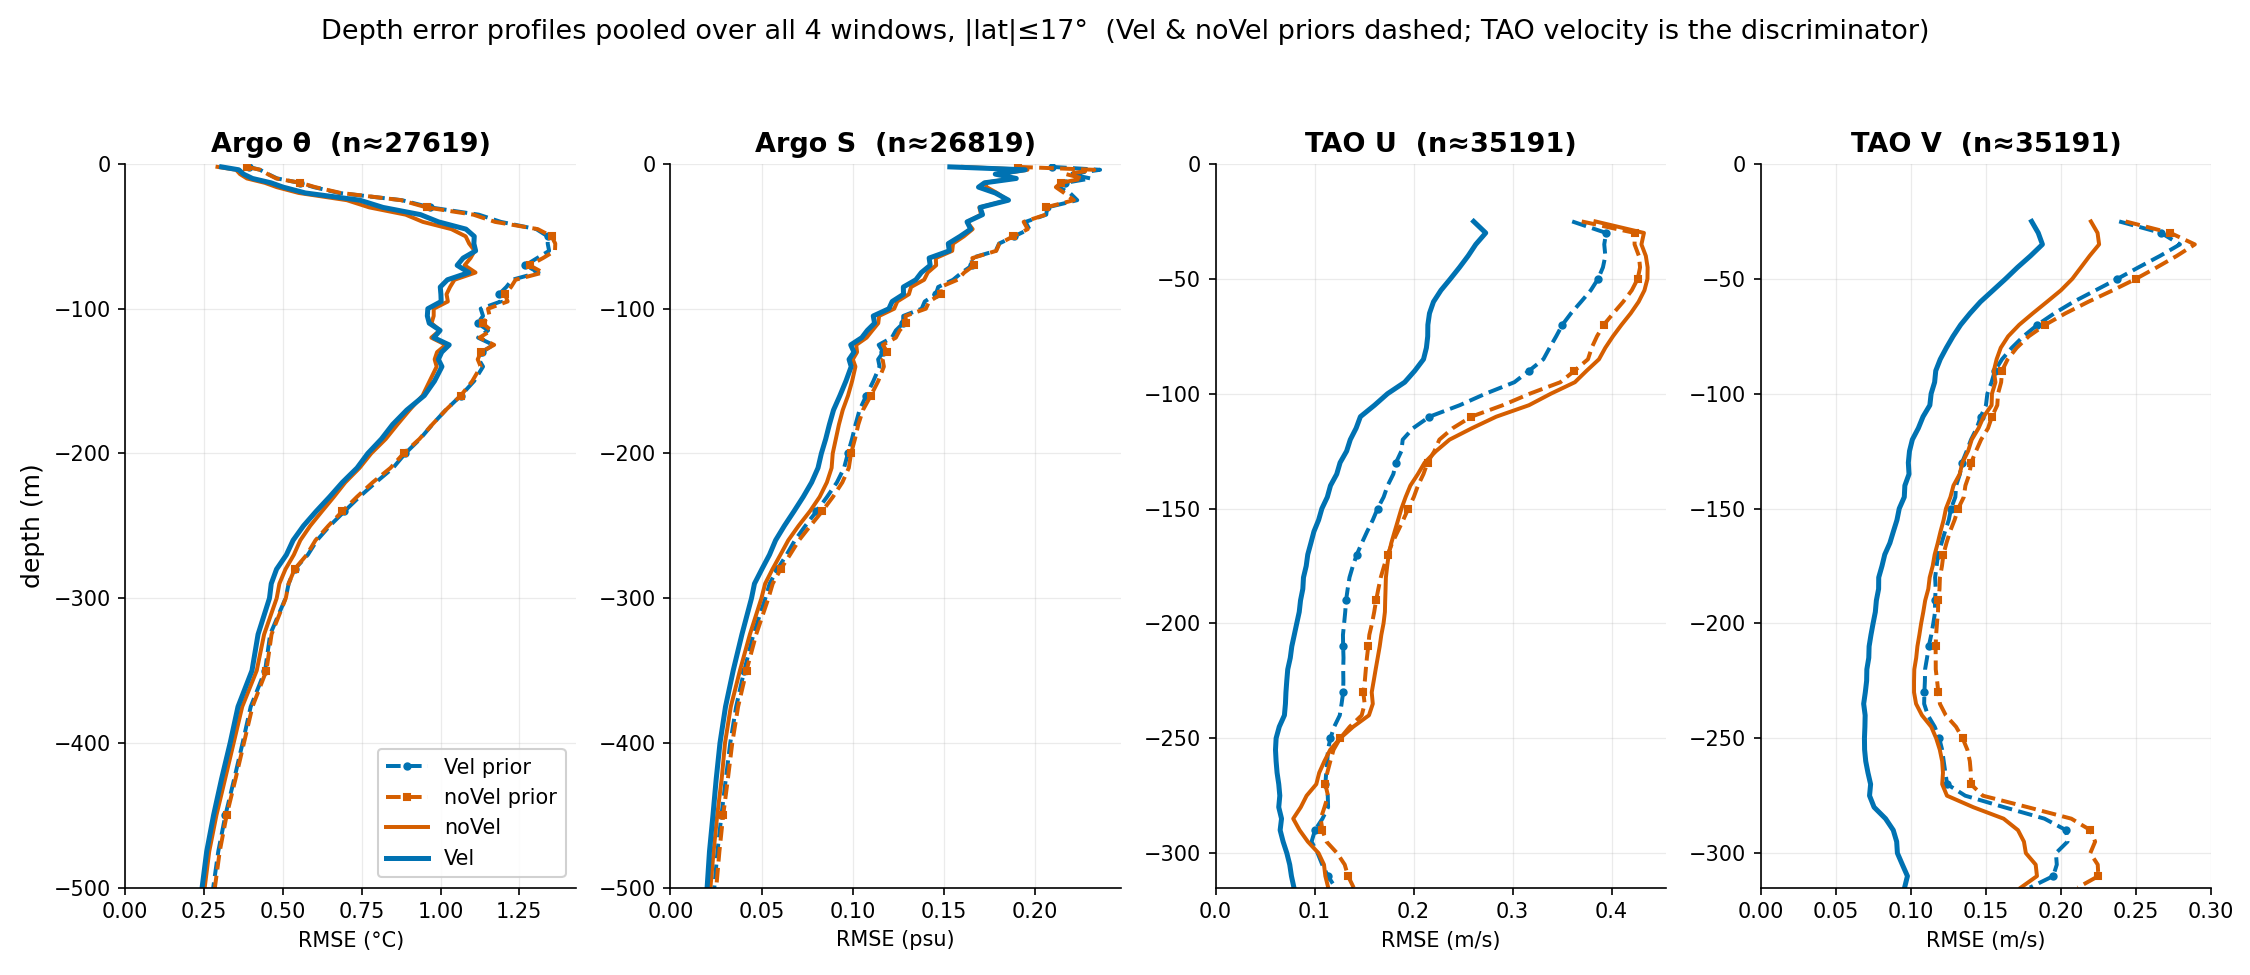
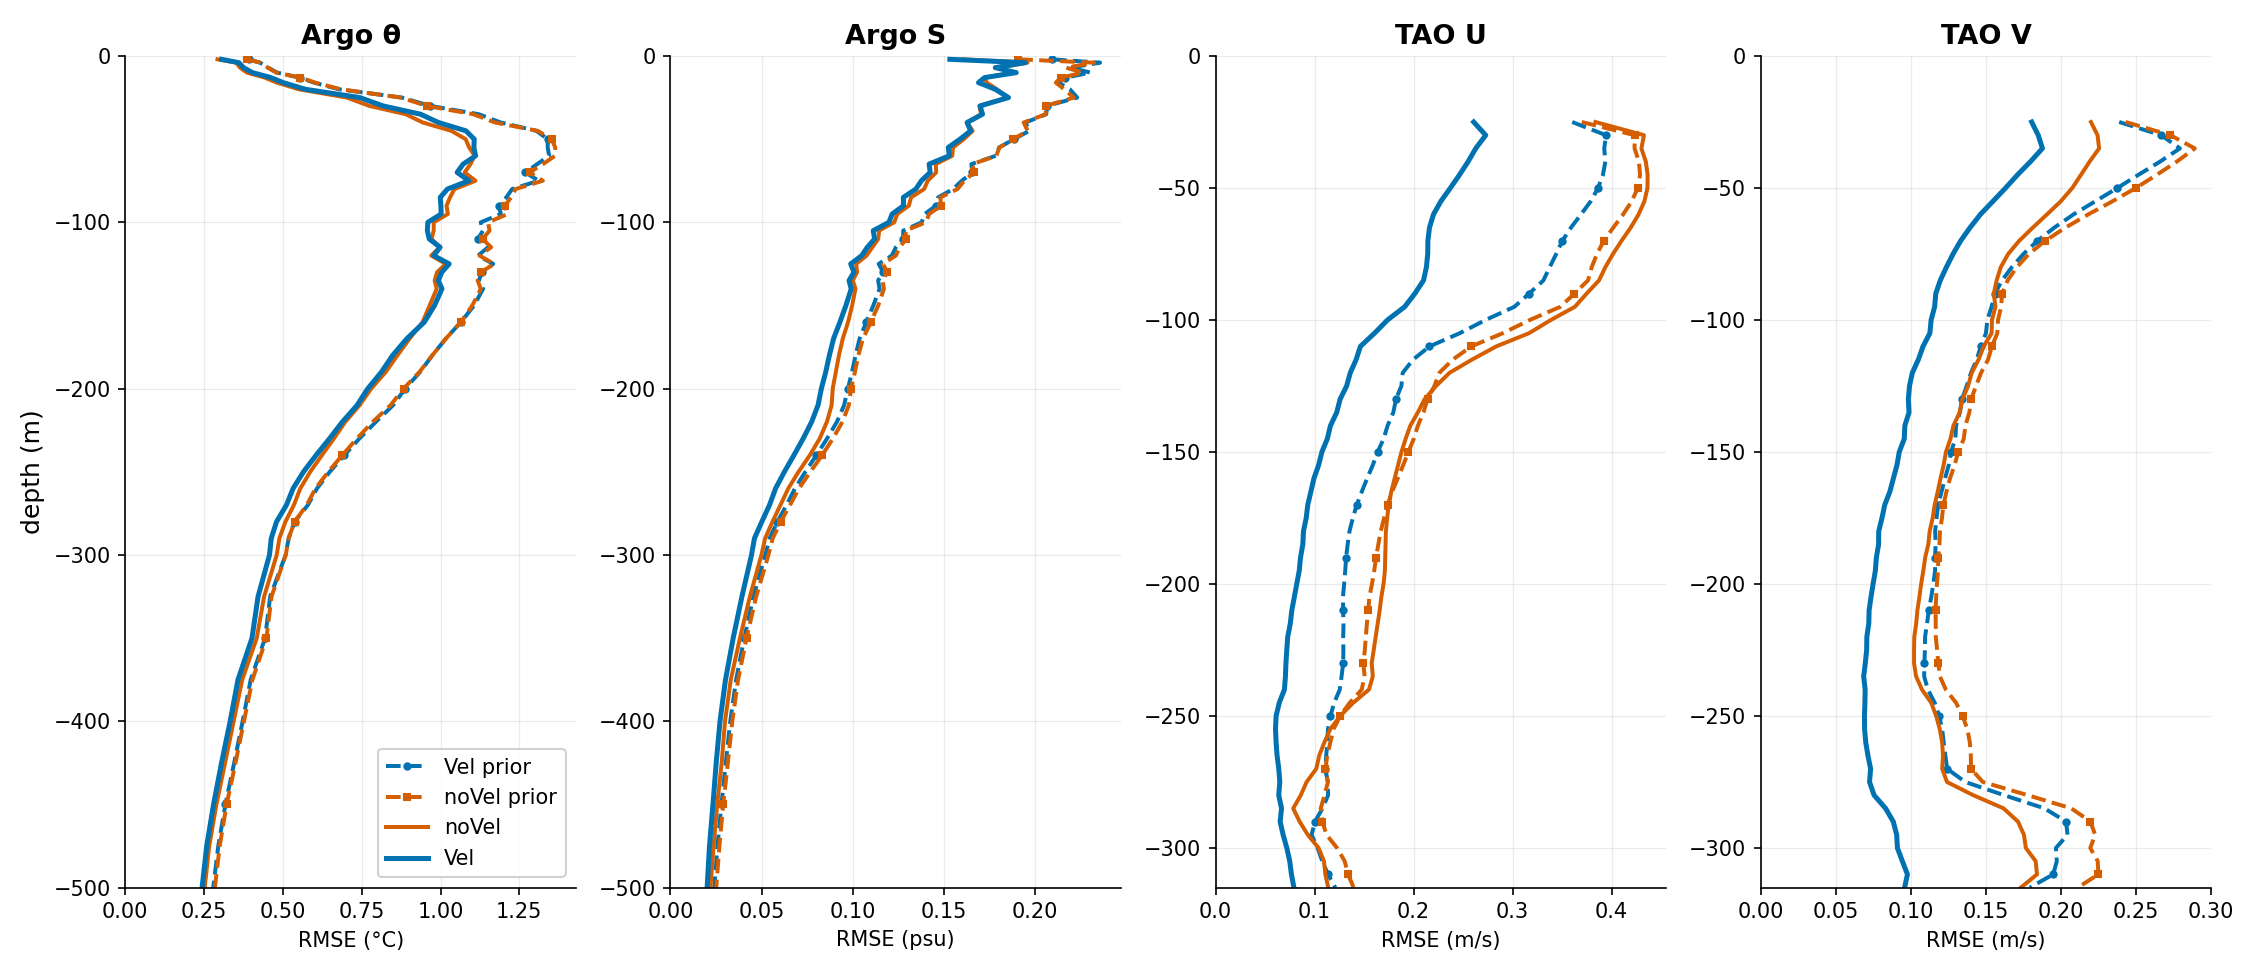
updating misfit cost figs

diff --git a/misfit_cost.py b/misfit_cost.py
@@ -435,6 +435,202 @@ def plot_iter0(out='figs/comparison/misfit_cost_allwindows_iter0.png'):
          labels={'prior': 'Vel prior', 'noVel_prior': 'noVel prior'}, out=out)
 
 
+# ---- equatorial / off-equatorial split (second version) ----------------------
+# Every (solution x cell) is split by observation latitude into equatorial
+# (|lat| <= 5 deg) and off-equatorial (5 < |lat| <= 17 deg) model-data misfit.
+# Velocity obs (TAO ADCP/CUR) all sit at the equator, so their off-equatorial
+# bars come out empty by construction -- that is intentional, it shows velocity
+# is only measured on the equator. Separate cache (CSV_R) and figure (FIG_R) so
+# the originals are untouched. Same sampling cost as compute() (one pass).
+CSV_R = f'{tiw.CACHE}/misfit_cost_byregion.csv'
+FIG_R = 'figs/comparison/misfit_cost_allwindows_byregion.png'
+COLS_R = ['window', 'solution', 'product', 'group', 'region', 'nobs', 'chi2']
+WIN_LABEL = {'sep2012': 'Sep - Dec 2012', 'nov2012': 'Nov 2012 - Feb 2013',
+             'jan2013': 'Jan - Apr 2013', 'mar2013': 'Mar - Jun 2013'}
+REGION_ORDER = ['eq', 'off']
+REGION_LABEL = {'total': 'all obs (|lat| ≤ 17°)', 'eq': 'equatorial (≤ 5°)',
+                'off': 'off-equator (5–17°)'}
+# Two cues per region so the eq/off split bars read as distinct from the plain
+# pooled-total bars: fill alpha + edge weight. (solution stays encoded by hatch.)
+REGION_STYLE = {
+    'total': dict(alpha=1.0, linewidth=0.4, edgecolor='black'),
+    'eq':    dict(alpha=0.9, linewidth=1.7, edgecolor='black'),
+    'off':   dict(alpha=0.4, linewidth=1.7, edgecolor='black'),
+}
+
+
+def _region_mask(abslat, region):
+    """|lat| band mask. eq = [0, 5] deg (includes the equator), off = (5, 17]."""
+    if region == 'eq':
+        return abslat <= 5.0
+    return (abslat > 5.0) & (abslat <= LAT_LIMIT)
+
+
+def _profiles_region(rows, win, state):
+    """_profiles, but the model field is sampled once then split into |lat| bands."""
+    obs_sets = []
+    for spec in PROFILE_PRODUCTS:
+        for y in WINDOWS[win]['years']:
+            p = spec['path'](y)
+            if os.path.exists(p):
+                obs = tiw.open_obs(p)
+                obs_sets.append((spec, obs, _good_profiles(obs)))
+            else:
+                print(f'  {win} skip missing {os.path.basename(p)}', flush=True)
+    acc = {}
+    for r in state:
+        ds, prep = state[r], {}
+        for spec, obs, good in obs_sets:
+            alat = np.abs(obs['lat'].values)
+            for v in spec['vars']:
+                if v not in prep:
+                    prep[v] = _prep_field(ds, v)
+                man = _sample(prep[v], obs)                 # sample once per run/field
+                raw, wgt = obs[f'prof_{v}'].values, obs[f'prof_{v}weight'].values
+                for region in REGION_ORDER:
+                    keep = _region_mask(alat, region) & good
+                    o, m, wt = tiw._mask(raw, man, np.where(keep[:, None], wgt, 0.0))
+                    a = acc.setdefault((r, spec['names'][v], spec['group'], region), [0.0, 0])
+                    a[0] += float(np.sum(wt * (o - m) ** 2))
+                    a[1] += o.size
+        del prep
+    for (r, name, group, region), (s, n) in acc.items():
+        chi2 = s / n if n else np.nan
+        rows.append((win, r, name, group, region, n, chi2))
+        print(f'  {win} {r:5s} {name:12s} {region:3s} n={n:7d} chi2/n={chi2:.3f}', flush=True)
+
+
+def _grids_region(rows, win, state, surf, ref):
+    """_grids, but each gridded term (SST, SSH) is split by the model grid |YC|."""
+    years = WINDOWS[win]['years']
+    nx, ny = ref.sizes['XC'], ref.sizes['YC']
+    wetC = (ref['hFacC'].isel(Z=0) > 0).values
+    alat2d = np.broadcast_to(np.abs(ref['YC'].values)[:, None], (ny, nx))
+
+    def regw(w2d, region):          # NaN outside band -> excluded by _weighted
+        return np.where(_region_mask(alat2d, region), w2d, np.nan)
+
+    sst = {y: tiw.load_sst(nx, ny, year=y, nt=NTY[y]) for y in years}
+    wsst = 1.0 / sst[years[0]][1] ** 2
+    for r in state:
+        ds = state[r]
+        md = pd.to_datetime(ds['time'].values)
+        mod = np.where(wetC[None], ds['THETA'].isel(Z=0).values, np.nan)
+        resid = mod - _obs_at_days(md, {y: sst[y][0] for y in years})
+        for region in REGION_ORDER:
+            s, n = _weighted(resid, regw(wsst, region))
+            rows.append((win, r, 'SST', 'Satellite', region, n, s / n if n else np.nan))
+    err = {'ja': tiw.load_ssh_err(nx, ny, '3cm'), 'c2': tiw.load_ssh_err(nx, ny, '6cm')}
+    rads = {y: tiw.load_rads(nx, ny, year=y, nt=NTY[y]) for y in years}
+    for r in surf:
+        ds = surf[r]
+        md = pd.to_datetime(ds['time'].values)
+        eta = np.where(wetC[None], ds['ETAN'].values, np.nan)
+        eta = eta - np.nanmean(eta, axis=0, keepdims=True)
+        for region in REGION_ORDER:
+            s = n = 0
+            for sat in ('ja', 'c2'):
+                o = _obs_at_days(md, {y: rads[y][sat] for y in years})
+                o = o - np.nanmean(o, axis=0, keepdims=True)
+                si, ni = _weighted(eta - o, regw(1.0 / err[sat] ** 2, region))
+                s += si
+                n += ni
+            rows.append((win, r, 'SSH', 'Satellite', region, n, s / n if n else np.nan))
+
+
+def compute_region(windows=None):
+    """Region-split recompute -> CSV_R (leaves the original CSV untouched)."""
+    os.makedirs(os.path.dirname(CSV_R), exist_ok=True)
+    windows = list(windows or WINDOWS)
+    rows = []
+    if os.path.exists(CSV_R):
+        old = pd.read_csv(CSV_R)
+        rows += [r for r in old[~old['window'].isin(windows)].itertuples(index=False, name=None)]
+    for win in windows:
+        print('===', win, flush=True)
+        state = _load(win, 'diag_state')
+        _profiles_region(rows, win, state)
+        surf = _load(win, 'diag_surf')
+        _grids_region(rows, win, state, surf, state['Vel'])
+        pd.DataFrame(rows, columns=COLS_R).to_csv(CSV_R, index=False)
+        print(f'  checkpoint -> {CSV_R} ({len(rows)} rows)', flush=True)
+    return pd.DataFrame(rows, columns=COLS_R)
+
+
+def _grouped_region(df):
+    df = df.copy()
+    df = df[df['product'].isin(CELL_OF)]
+    df = df[[_keep_row(w, s, p) for w, s, p in zip(df['window'], df['solution'], df['product'])]]
+    df['cell'] = df['product'].map(CELL_OF)
+    df['sw'] = df['chi2'] * df['nobs']
+    g = df.groupby(['window', 'solution', 'cell', 'region'], as_index=False).agg(
+        sw=('sw', 'sum'), nobs=('nobs', 'sum'))
+    g['chi2'] = g['sw'] / g['nobs']
+    return g
+
+
+def _cell_bars_region(ax, cells, color, getval, roles, regions):
+    """Grouped bars for `regions` x `roles` per cell (contiguous, centered).
+    region -> alpha+edge weight (REGION_STYLE), solution -> hatch, cell -> color."""
+    x = np.arange(len(cells))
+    series = [(reg, role) for reg in regions for role in roles]
+    n = len(series)
+    bw = 0.82 / n          # fill a fixed fraction of each cell -> wider bars when fewer
+    for i, (reg, role) in enumerate(series):
+        st = REGION_STYLE[reg]
+        ax.bar(x + (i - (n - 1) / 2) * bw, [getval(role, reg, c) for c in cells], bw,
+               color=[color[c] for c in cells], hatch=HATCH[role],
+               alpha=st['alpha'], edgecolor=st['edgecolor'], linewidth=st['linewidth'])
+    ax.axhline(1.0, ls='--', c='0.4', lw=1)
+    ax.set_ylabel('Normalized Cost', fontsize=14)
+    ax.set_xticks(x); ax.set_xticklabels(cells, rotation=55, ha='right', fontsize=12)
+    ax.tick_params(axis='y', labelsize=12)
+    ax.margins(x=0.01)
+
+
+def plot_byregion(df=None, out=FIG_R, roles=None, labels=None):
+    roles = roles or PLOT_ROLES
+    labels = labels or {r: r for r in roles}
+    if df is None:
+        df = pd.read_csv(CSV_R)
+    g = _grouped_region(df)
+    color = {c: GROUP_COLOR[CELL_CAT[c]] for c in CELL_ORDER}
+    cells = [c for c in CELL_ORDER if c in set(g['cell'])]
+    wins = [w for w in WINDOWS if w in set(df['window'])]
+    # top panel: pooled TOTAL (summed over both regions) -> 2 bars/cell
+    tot = g.groupby(['solution', 'cell']).agg(sw=('sw', 'sum'), nobs=('nobs', 'sum'))
+    ti = tot['sw'] / tot['nobs']
+    # per-window panels: region-resolved -> 4 bars/cell
+    gi = g.set_index(['window', 'solution', 'cell', 'region'])['chi2']
+    fig = plt.figure(figsize=(16, 12))
+    gs = fig.add_gridspec(3, 4, hspace=0.62, wspace=0.3)
+    ax_agg = fig.add_subplot(gs[0, 0:3])                 # wide total panel
+    _cell_bars_region(ax_agg, cells, color,
+                      lambda role, reg, c: ti.get((role, c), np.nan), roles, ['total'])
+    ax_agg.set_title('all windows and regions', fontweight='bold')
+    for (r, c0, c1), win in zip([(1, 0, 2), (1, 2, 4), (2, 0, 2), (2, 2, 4)], wins):
+        ax = fig.add_subplot(gs[r, c0:c1], sharey=ax_agg)
+        _cell_bars_region(ax, cells, color,
+                          lambda role, reg, c, win=win: gi.get((win, role, c, reg), np.nan),
+                          roles, REGION_ORDER)
+        ax.set_title(WIN_LABEL.get(win, win))
+    cats = {CELL_CAT[c] for c in cells}
+    grp = [Patch(facecolor=c, edgecolor='k', label=gname)
+           for gname, c in GROUP_COLOR.items() if gname in cats]
+    sol = [Patch(facecolor='0.85', edgecolor='k', hatch=HATCH[r], label=labels[r]) for r in roles]
+    reg = [Patch(facecolor='0.6', label=REGION_LABEL[rg], **REGION_STYLE[rg])
+           for rg in ('total', 'eq', 'off')]
+    # one combined legend (category, then solution, then region) -> no overlap.
+    # blank spacers separate the three groups.
+    spacer = Patch(facecolor='none', edgecolor='none', label='')
+    handles = grp + [spacer] + sol + [spacer] + reg
+    lax = fig.add_subplot(gs[0, 3]); lax.axis('off')
+    lax.legend(handles=handles, loc='center', frameon=False, fontsize=10, labelspacing=0.55)
+    os.makedirs(os.path.dirname(out), exist_ok=True)
+    fig.savefig(out, dpi=150, bbox_inches='tight')
+    print('wrote', out, flush=True)
+
+
 if __name__ == '__main__':
     cmd = sys.argv[1] if len(sys.argv) > 1 else 'all'
     wins = [w for w in sys.argv[2:] if w in WINDOWS] or None   # subset merges with CSV
@@ -448,3 +644,7 @@ if __name__ == '__main__':
         compute_noVel_prior(wins)
     if cmd in ('plot_prior', 'compute_prior'):
         plot_iter0()
+    if cmd == 'compute_region':      # region-split recompute -> CSV_R
+        compute_region(wins)
+    if cmd in ('plot_region', 'compute_region'):
+        plot_byregion()

diff --git a/summary_figs.py b/summary_figs.py
@@ -41,36 +41,6 @@ TIW_PER = (15.0, 40.0)           # TIW period band (days)
 
 
 # ============================ (1) depth error profiles ============================
-def fig_error_profiles():
-    fig, axs = plt.subplots(1, 4, figsize=(15, 6.5))
-    for ax, (prod, var, label, unit, zlim) in zip(axs, PROF):
-        o = np.load(f'{CACHE}/obs_{prod}.npz')
-        depth, obs, w = o['depth'], o[f'obs_{var}'], o[f'w_{var}']
-        latok = np.abs(o['lat']) <= LAT_LIMIT          # ±17 domain restriction
-        obs, w = obs[latok], w[latok]
-        for run, color, rlabel in SOLUTIONS:
-            m = np.load(f'{CACHE}/model_{run}_{prod}_{var}.npy')[latok]
-            dashed = run == 'prior'
-            ax.plot(tiw.rmse_profile(obs, m, w), depth, color=color,
-                    lw=2.6 if run == 'Vel' else 1.9,
-                    ls='--' if dashed else '-', label=rlabel,
-                    marker='o' if dashed else None, ms=3, markevery=4, zorder=3)
-        ax.set_title(label, fontsize=13, fontweight='bold')
-        ax.set_xlabel(f'RMSE ({unit})'); ax.set_ylim(zlim, 0); ax.set_xlim(left=0)
-        ax.grid(alpha=0.25, lw=0.6); ax.spines[['top', 'right']].set_visible(False)
-        ax.tick_params(labelsize=10)
-    axs[0].set_ylabel('depth (m)', fontsize=12)
-    axs[0].legend(fontsize=10, loc='lower right', frameon=True, framealpha=0.9)
-    fig.suptitle('Error vs depth: prior → noVel → Vel\n'
-                 'TAO T/S corrects θ/S everywhere; only the velocity constraint pulls '
-                 'TAO U/V error down through the thermocline',
-                 fontsize=13)
-    fig.tight_layout(rect=[0, 0, 1, 0.93])
-    os.makedirs(OUT, exist_ok=True)
-    fig.savefig(f'{OUT}/error_profiles_depth.png', dpi=150); plt.close(fig)
-    print('wrote error_profiles_depth.png')
-
-
 def fig_error_and_decomp_profiles(prior_label='Vel prior', out='error_and_decomp_profiles.png'):
     fig = plt.figure(figsize=(15, 12.5), constrained_layout=True)
     fig.get_layout_engine().set(h_pad=0.18)   # extra gap between panels and the below-row legends
@@ -467,8 +437,6 @@ def fig_vhov_mooring():
 
 if __name__ == '__main__':
     os.makedirs(OUT, exist_ok=True)
-    fig_error_profiles()
-    fig_error_and_decomp_profiles()
     fig_error_and_decomp_profiles(prior_label='prior', out='error_and_decomp_profiles_sep2012.png')
     fig_skill_maps()
     fig_tiw_hovmoller()

diff --git a/profile_windows.py b/profile_windows.py
@@ -103,15 +103,12 @@ def plot():
             ax.plot(rmse, depth, color=c, lw=2.4 if sol == 'Vel' else 1.9,
                     ls='--' if isp else '-', label=rlab,
                     marker=MARK.get(sol) if isp else None, ms=3, markevery=4)
-        ntot = int(d[f'Vel_{prod}_{v}_n'].max())
-        ax.set_title(f'{label}  (n≈{ntot})', fontsize=13, fontweight='bold')
+        ax.set_title(label, fontsize=13, fontweight='bold')
         ax.set_xlabel(f'RMSE ({unit})'); ax.set_ylim(zlim, 0); ax.set_xlim(left=0)
         ax.grid(alpha=0.25, lw=0.6); ax.spines[['top', 'right']].set_visible(False)
     axs[0].set_ylabel('depth (m)', fontsize=12)
     axs[0].legend(fontsize=10, loc='lower right', framealpha=0.9)
-    fig.suptitle('Depth error profiles pooled over all 4 windows, |lat|≤17°  '
-                 '(Vel & noVel priors dashed; TAO velocity is the discriminator)', fontsize=13)
-    fig.tight_layout(rect=[0, 0, 1, 0.94])
+    fig.tight_layout()
     out = 'figs/comparison/error_profiles_depth_17_allwindows.png'
     os.makedirs(os.path.dirname(out), exist_ok=True)
     fig.savefig(out, dpi=150)
